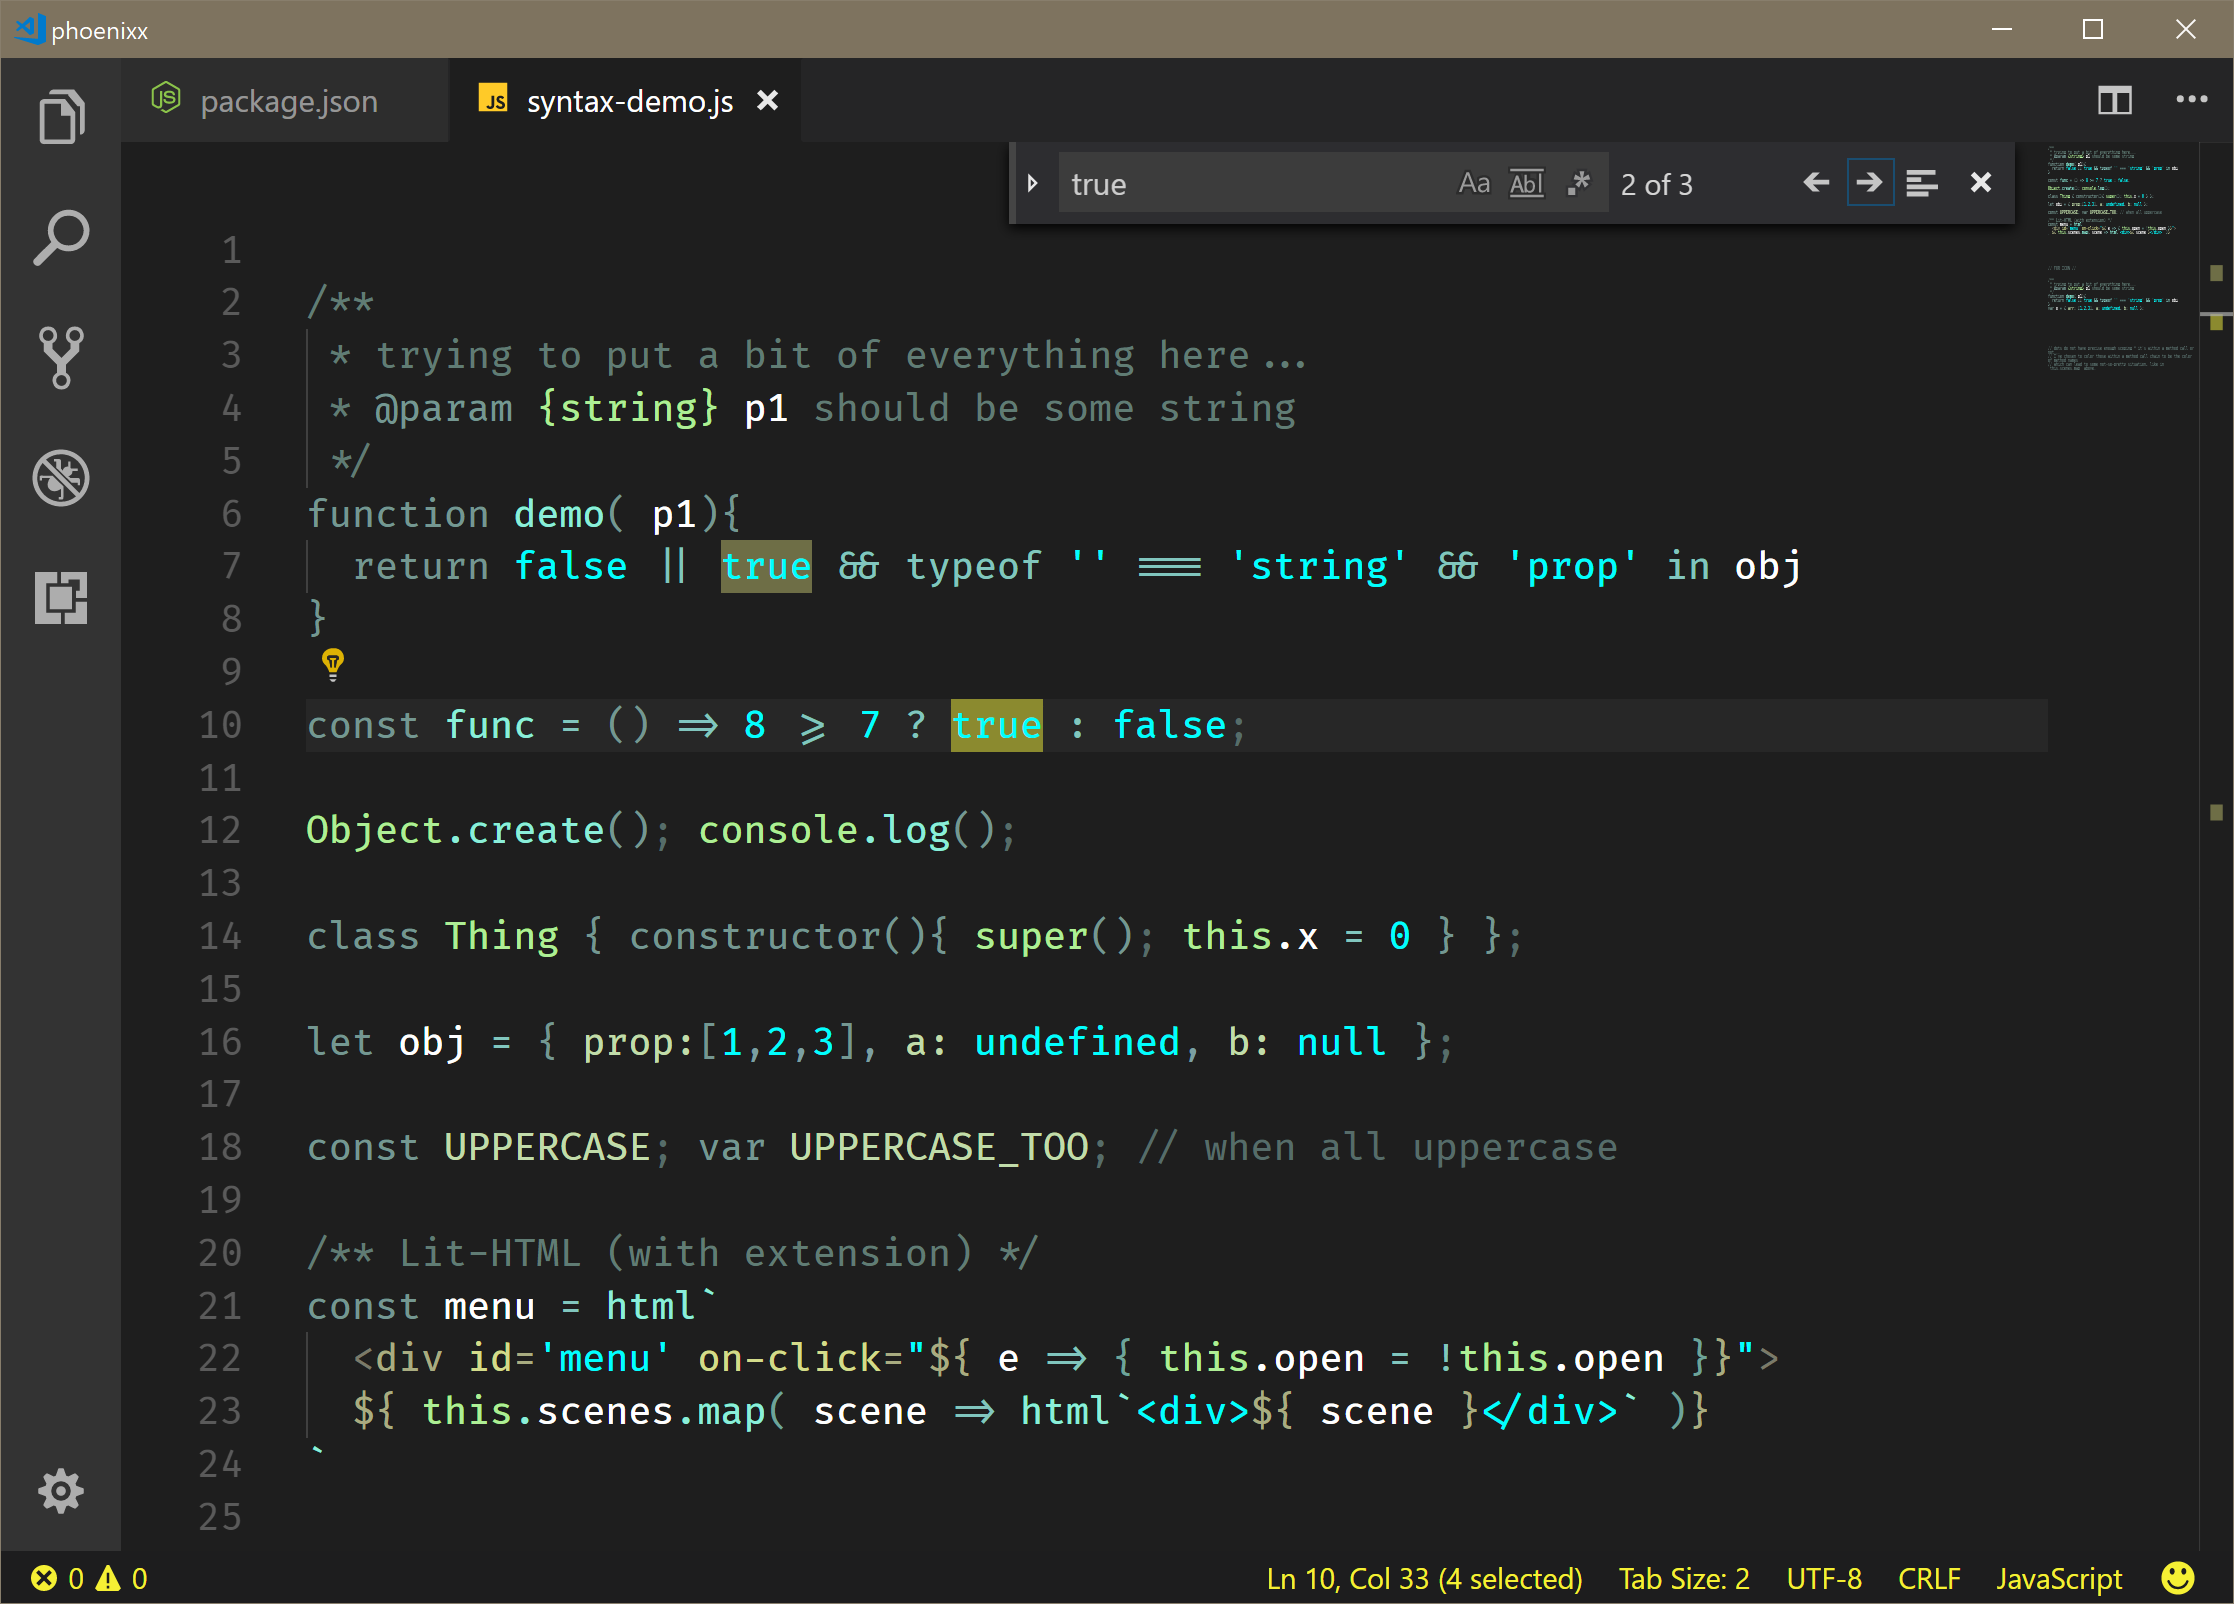
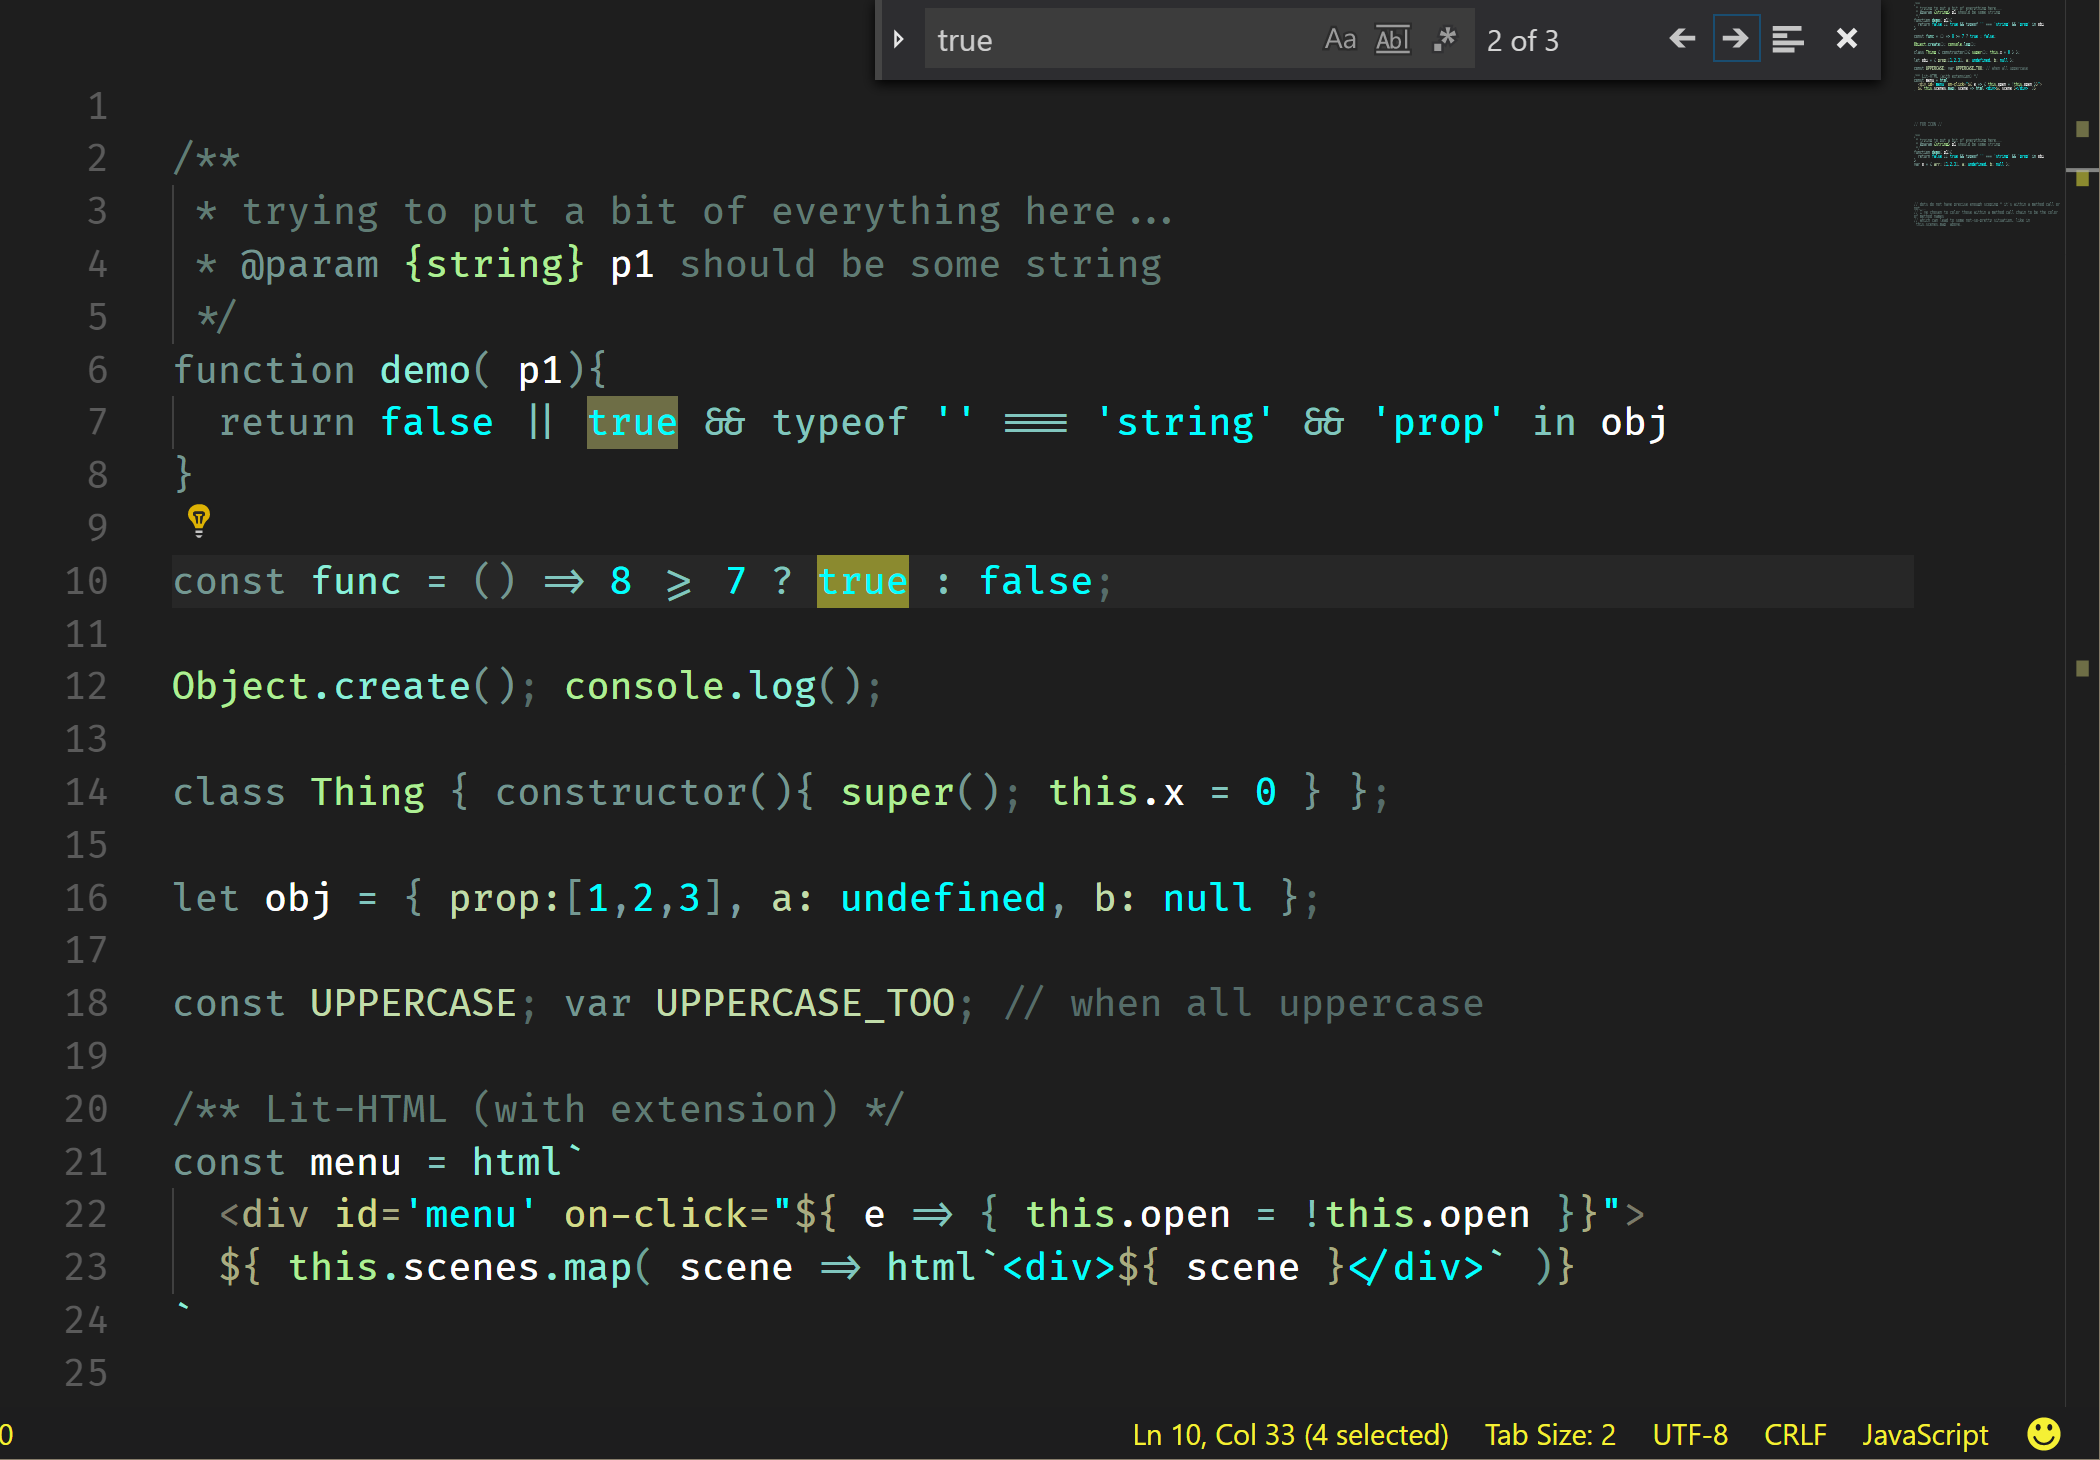
Adjusted HTML and CSS colors, new screenshots

diff --git a/README.md b/README.md
@@ -16,10 +16,12 @@ HTML colors are different / contrasting with JS colors so when both languages ar
 
 Almost there: note that in the last example the deepest div is not correctly highlighted as HTML, but as a normal string. Not sure whether this depends on the lit-html extension or the language services... Hopefully this should be adressed soon!
 
-### Pug (screenshot to come)
+### HTML / PUG
+
+![pug demo](./screenshots/html.png)
 
 ![pug demo](./screenshots/pug.png)
 
 ### Stylus (screenshot to come)
 
-![stylus demo](./screenshots/stylus.png)
+![stylus demo](./screenshots/css.png)

diff --git a/CHANGELOG.md b/CHANGELOG.md
@@ -1,5 +1,10 @@
 # Change Log
 
+
+## [0.5.0]
+- [Changed] Adjusted HTML and CSS colors (inc. pug/stylus)
+- [Changed] New screenshots
+
 ## [0.4.0]
 - [Added] Specified colors for selection / find match
 - [Changed] HTML attribute color (yellow) less saturated
